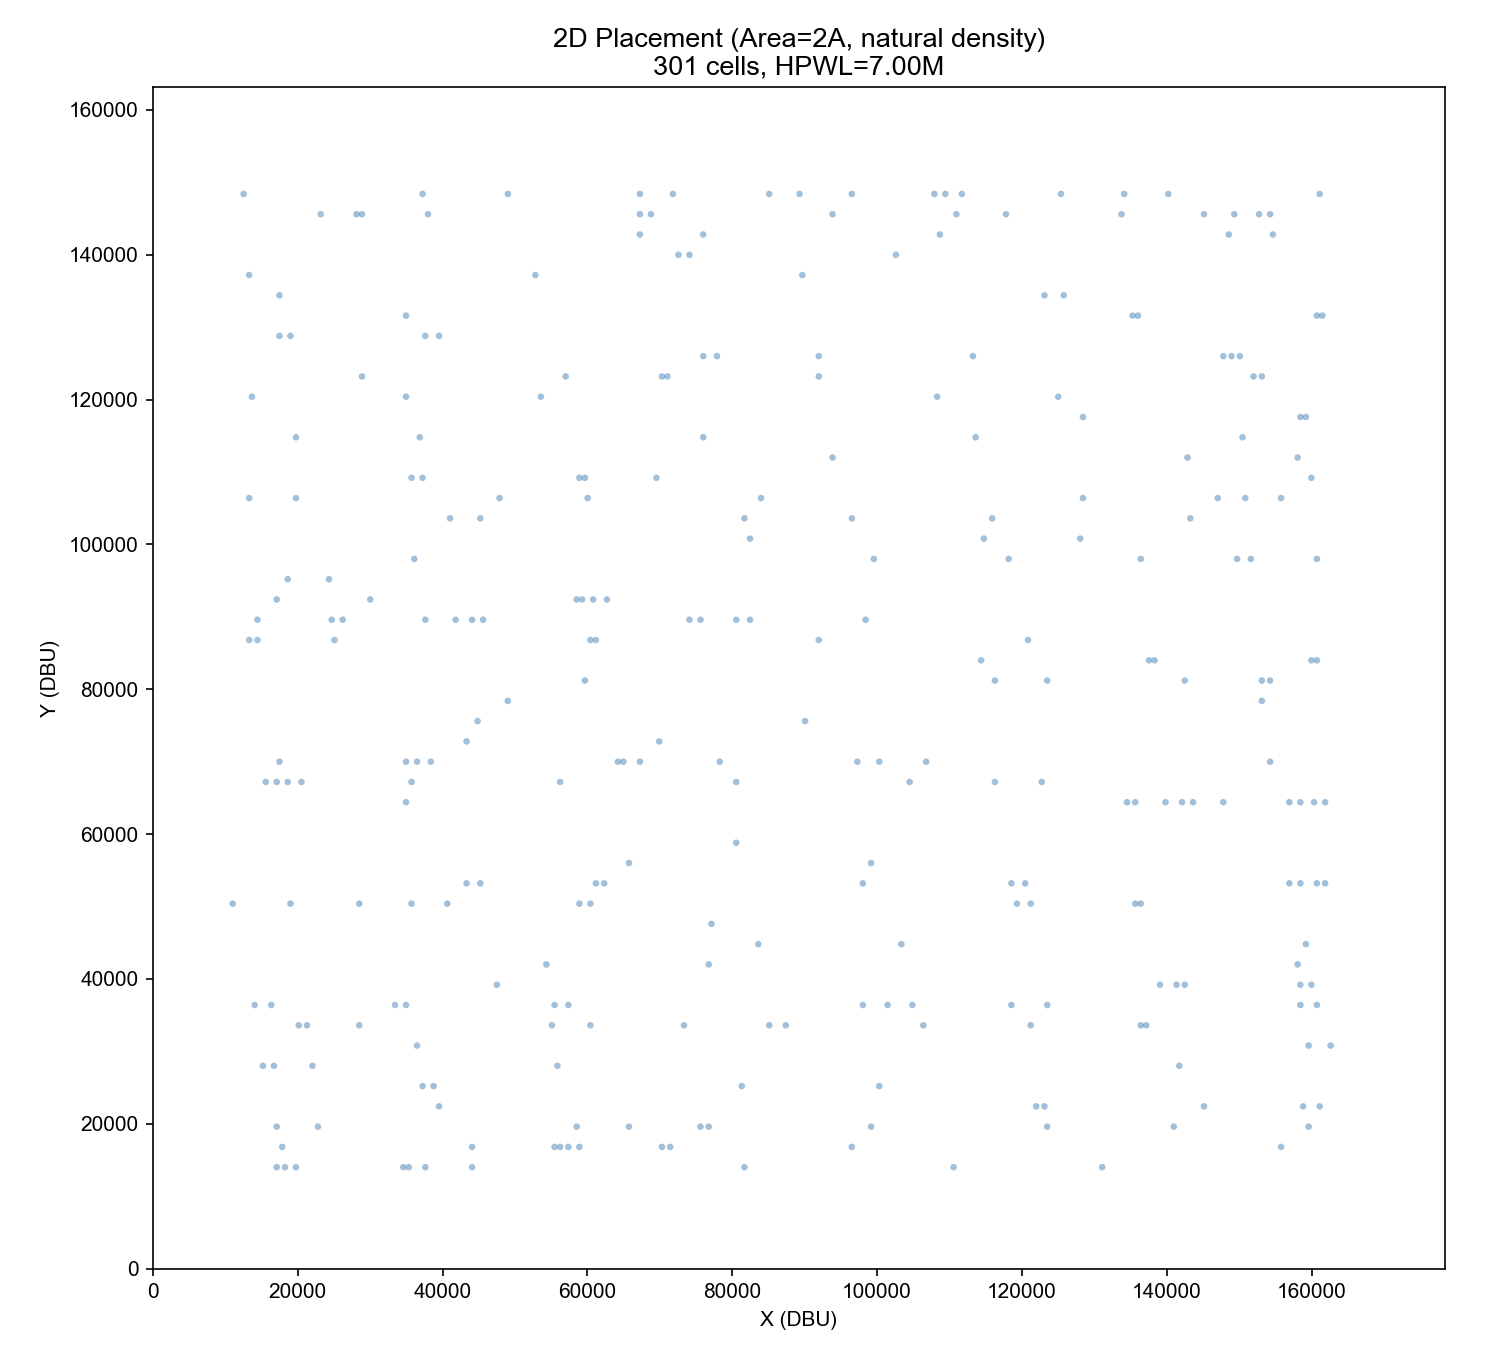
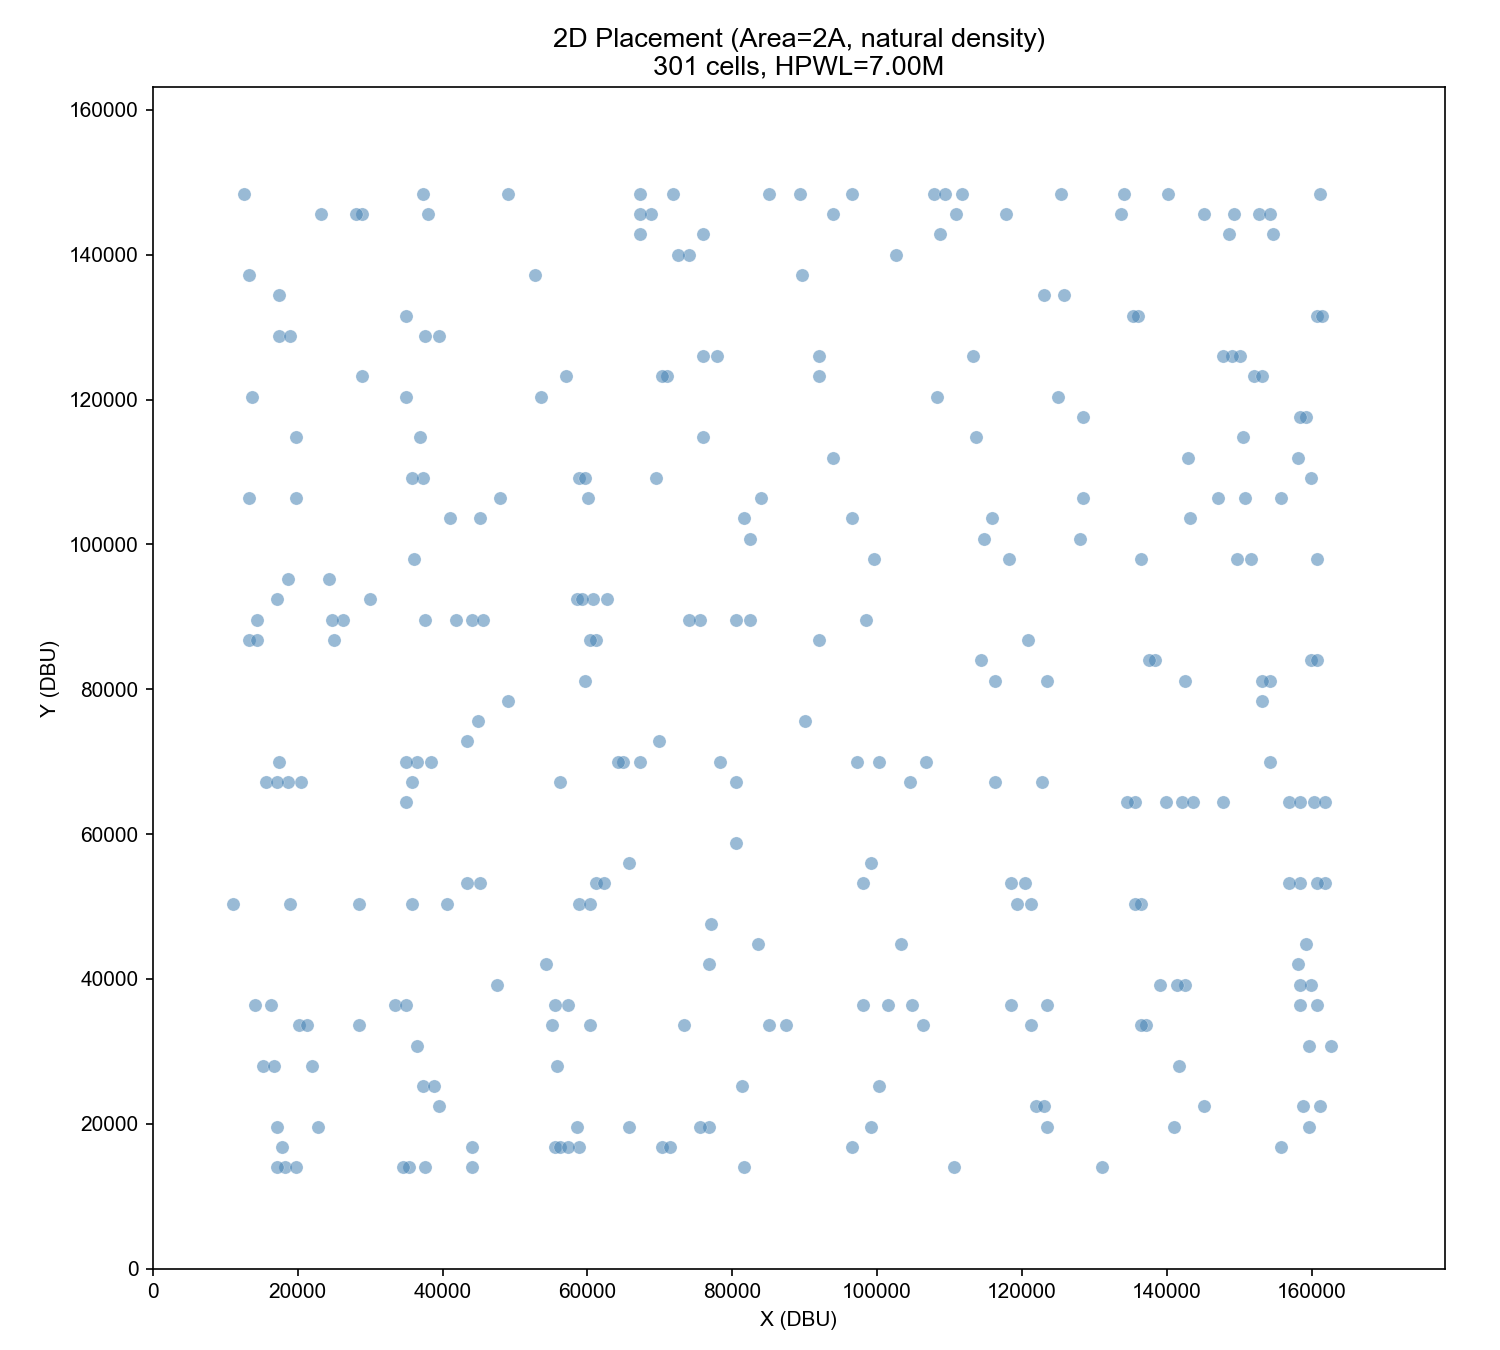
增大散点尺寸: s=80/40, 加白色边缘增加可见性

diff --git a/scripts/plot_placement.py b/scripts/plot_placement.py
@@ -26,7 +26,7 @@ ratio_2d = da2d[2] / da3d[2]
 # 1. 2D placement
 fig, ax = plt.subplots(figsize=(10, 9))
 xs = [x for _,x,y,_ in d2d]; ys = [y for _,x,y,_ in d2d]
-ax.scatter(xs, ys, c='steelblue', s=10, alpha=0.5, edgecolors='none')
+ax.scatter(xs, ys, c='steelblue', s=40, alpha=0.55, edgecolors='white', linewidth=0.2)
 ax.set_title(f'2D Placement (Area=2A, natural density)\n{len(d2d)} cells, HPWL=7.00M', fontsize=13, fontweight='bold')
 ax.set_xlim(0, da2d[2]); ax.set_ylim(0, da2d[3]); ax.set_aspect('equal')
 ax.set_xlabel('X (DBU)'); ax.set_ylabel('Y (DBU)')
@@ -34,19 +34,19 @@ plt.tight_layout(); plt.savefig('figures/gcd_2d.png', dpi=150); plt.close()
 
 # 2. 3D bottom
 fig, ax = plt.subplots(figsize=(8, 7))
-if bot: xs, ys = zip(*bot); ax.scatter(xs, ys, c='#2E86AB', s=22, alpha=0.65, edgecolors='none')
-ax.set_title(f'3D Bottom Die\n{len(bot)} cells', fontsize=13, fontweight='bold')
+if bot: xs, ys = zip(*bot); ax.scatter(xs, ys, c='#2E86AB', s=80, alpha=0.75, edgecolors='white', linewidth=0.3)
+ax.set_title(f'3D Bottom Die\n{len(bot)} cells  |  Die area: 63 x 58 um', fontsize=13, fontweight='bold')
 ax.set_xlim(0, da3d[2]); ax.set_ylim(0, da3d[3]); ax.set_aspect('equal')
 ax.set_xlabel('X (DBU)'); ax.set_ylabel('Y (DBU)')
-plt.tight_layout(); plt.savefig('figures/gcd_3d_bottom.png', dpi=150); plt.close()
+plt.tight_layout(); plt.savefig('figures/gcd_3d_bottom.png', dpi=150, facecolor='white'); plt.close()
 
 # 3. 3D top
 fig, ax = plt.subplots(figsize=(8, 7))
-if top: xs, ys = zip(*top); ax.scatter(xs, ys, c='#D66853', s=22, alpha=0.65, edgecolors='none')
-ax.set_title(f'3D Top Die\n{len(top)} cells', fontsize=13, fontweight='bold')
+if top: xs, ys = zip(*top); ax.scatter(xs, ys, c='#D66853', s=80, alpha=0.75, edgecolors='white', linewidth=0.3)
+ax.set_title(f'3D Top Die\n{len(top)} cells  |  Die area: 63 x 58 um', fontsize=13, fontweight='bold')
 ax.set_xlim(0, da3d[2]); ax.set_ylim(0, da3d[3]); ax.set_aspect('equal')
 ax.set_xlabel('X (DBU)'); ax.set_ylabel('Y (DBU)')
-plt.tight_layout(); plt.savefig('figures/gcd_3d_top.png', dpi=150); plt.close()
+plt.tight_layout(); plt.savefig('figures/gcd_3d_top.png', dpi=150, facecolor='white'); plt.close()
 
 # 4. Side-by-side comparison (proportional)
 fig, axes = plt.subplots(1, 3, figsize=(16, 5),
@@ -54,17 +54,17 @@ fig, axes = plt.subplots(1, 3, figsize=(16, 5),
 ax = axes[0]
 xs = [x for _,x,y,_ in d2d]; ys = [y for _,x,y,_ in d2d]
 sf = math.sqrt(ratio_2d)
-ax.scatter(xs, ys, c='steelblue', s=8*sf, alpha=0.5, edgecolors='none')
+ax.scatter(xs, ys, c='steelblue', s=30*sf, alpha=0.55, edgecolors='white', linewidth=0.2)
 ax.set_title(f'2D (Area=2A)  {len(d2d)} cells', fontsize=12*sf, fontweight='bold')
 ax.set_xlim(0, da2d[2]); ax.set_ylim(0, da2d[3]); ax.set_aspect('equal')
 
 ax = axes[1]
-if bot: xs, ys = zip(*bot); ax.scatter(xs, ys, c='#2E86AB', s=22, alpha=0.65, edgecolors='none')
+if bot: xs, ys = zip(*bot); ax.scatter(xs, ys, c='#2E86AB', s=80, alpha=0.75, edgecolors='white', linewidth=0.3)
 ax.set_title(f'3D Bottom  {len(bot)} cells', fontsize=12, fontweight='bold')
 ax.set_xlim(0, da3d[2]); ax.set_ylim(0, da3d[3]); ax.set_aspect('equal')
 
 ax = axes[2]
-if top: xs, ys = zip(*top); ax.scatter(xs, ys, c='#D66853', s=22, alpha=0.65, edgecolors='none')
+if top: xs, ys = zip(*top); ax.scatter(xs, ys, c='#D66853', s=80, alpha=0.75, edgecolors='white', linewidth=0.3)
 ax.set_title(f'3D Top  {len(top)} cells', fontsize=12, fontweight='bold')
 ax.set_xlim(0, da3d[2]); ax.set_ylim(0, da3d[3]); ax.set_aspect('equal')
 
